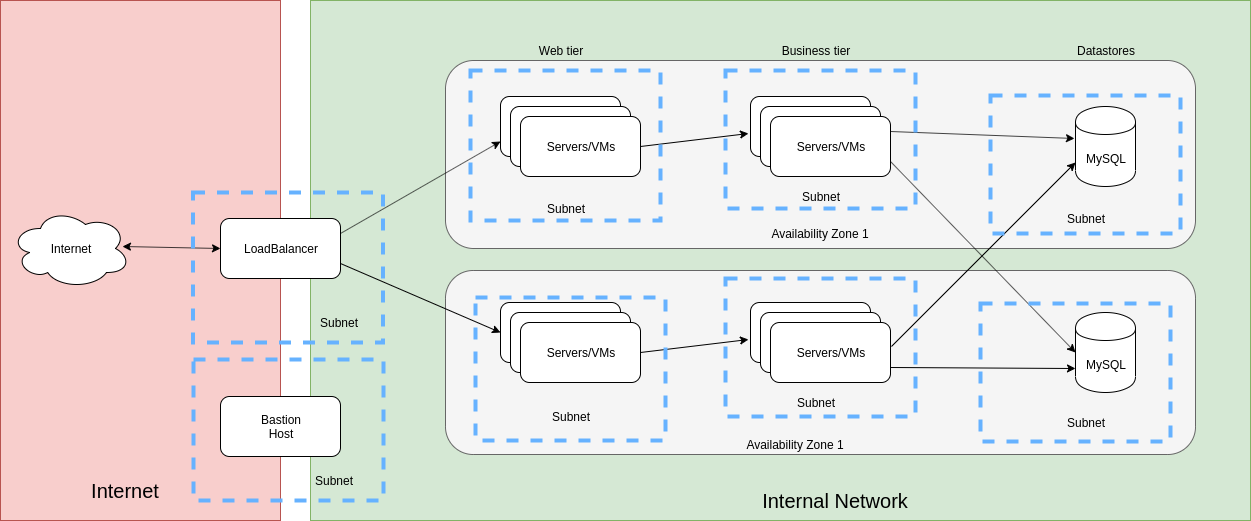
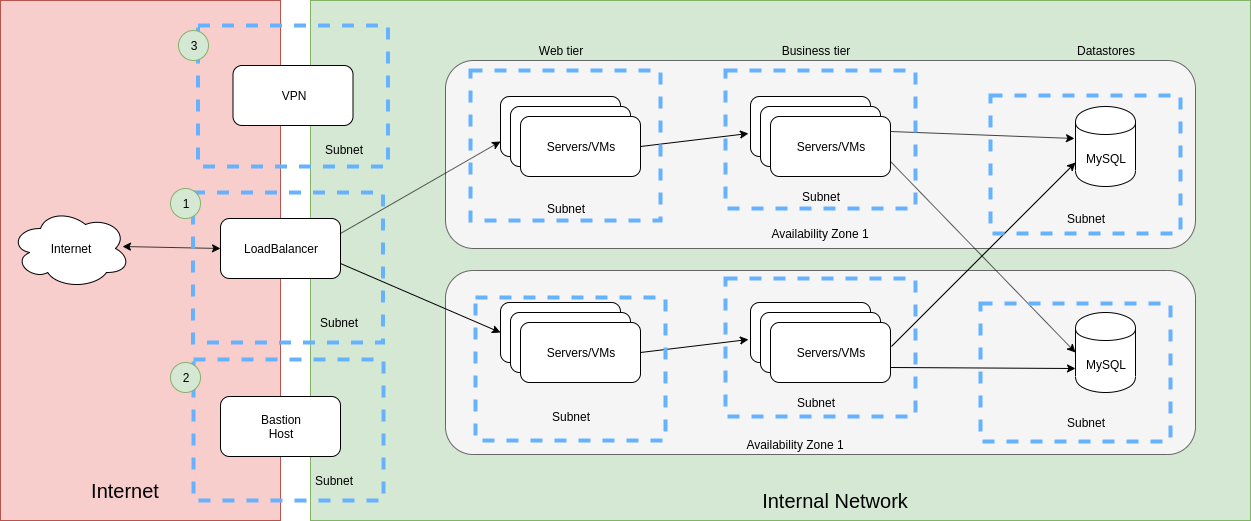
Adding descriptions to the number bubbles

diff --git a/docs/kubernetes-security/README.md b/docs/kubernetes-security/README.md
@@ -7,6 +7,30 @@ This diagram represents a non-containerized n-tier architecture:
 
 ![the stack](/docs/kubernetes-security/images/n-tier-application-architecture.png)
 
+### [1] Loadbalancer
+The load balancer has a public IP address that is reachable anywhere on the internet.  This is the main point of entry for the application.  The load balancer
+bridges the external network (Internet) and the internal private network where the application servers resides.
+
+This is a vulnerable point since it is on the internet and anyone can reach it.  The job of the load balancer is to forward traffic from the internet to a set
+of redundant servers we have internally that is handling request for the application.  This also means that the "web tier" servers are vulnerable to attacks
+from the outside.
+
+### [2] Bastion host
+The bastion host has a public IP address that is reachable anywhere on the internet and a private IP address for the internal network.  The bastion host bridges
+the external network (Internet) and the internal private network where the application servers resides.
+
+This is a vulnerable point since it is on the internet and anyone can reach it.  While this machine does not blindly forward traffic from the internet into our backend servers, it is most likely sitting on a well known SSH port 22.  We can limit the IPs that can reach this port but it is still sitting on the internet and
+it would be something to watch out for.
+
+This host is very important since it is bridging the internet and the internal network and it is a full Linux system.  If someone is able to compromise this host,
+they would have a whole suite of tools available to them to further attack the internal network.
+
+### [3] VPN
+This might be a duplicate node but wanted to highlight that it might be here.  The VPN will serve about the same purpose as the bastion host.  The VPN has a
+public IP address and an internal IP address spanning the two networks.  It has similar vulnerabilities as the bastion host but maybe a little less.  These are
+usually appliances which has limited functionality and are hardend for security.  However, this is again just software and over the years, there has been numerous
+remotely exploitable vulnerabilities against top VPN vendors.
+
 ## Control plane
 
 ![the stack](/docs/kubernetes-security/images/kubernetes-controle-plane.png)
